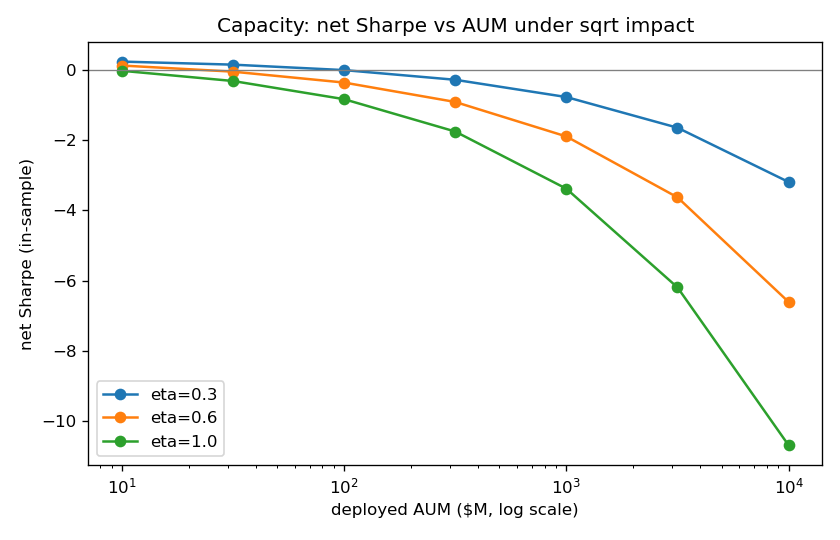
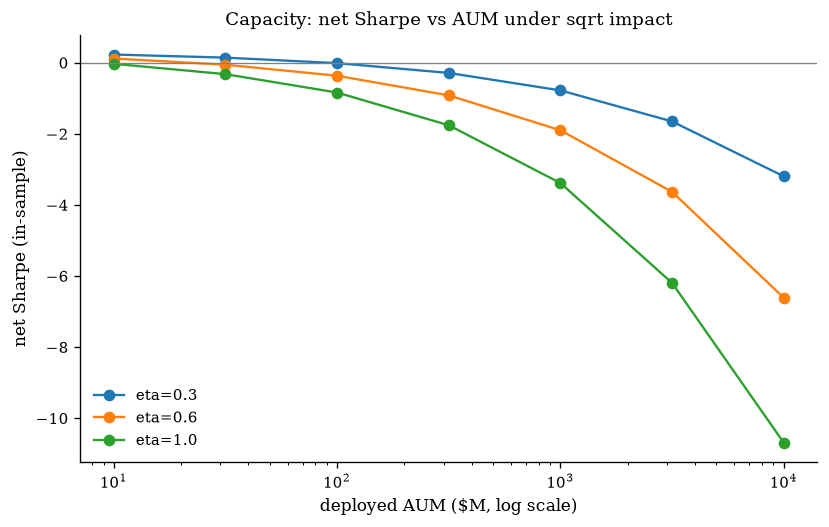
memo figures: serif / CM-math plot style to match the paper
- src/plotstyle.py: shared rcParams (serif fonts, mathtext cm, smaller labels,
  no top/right spines); applied in the cost/capacity/OOS figure scripts.
- Regenerated cost_sensitivity, capacity, oos_equity figures; rebuilt memo
  docx + pdf to embed them. Numbers unchanged (deterministic): deflated Sharpe
  0.20, OOS net -0.15, etc.

diff --git a/src/plotstyle.py b/src/plotstyle.py
@@ -1,0 +1,30 @@
+"""Shared matplotlib style for report figures.
+
+A clean, serif, academic look closer to the Computer Modern memo: serif fonts,
+CM math, smaller labels, no top/right spines. Call ``apply_style()`` after
+importing pyplot in any figure script.
+"""
+from __future__ import annotations
+
+import matplotlib as mpl
+
+
+def apply_style() -> None:
+    mpl.rcParams.update({
+        "font.family": "serif",
+        "font.serif": ["CMU Serif", "Latin Modern Roman", "DejaVu Serif", "Times New Roman"],
+        "mathtext.fontset": "cm",
+        "axes.titlesize": 11,
+        "axes.labelsize": 10,
+        "xtick.labelsize": 9,
+        "ytick.labelsize": 9,
+        "legend.fontsize": 9,
+        "legend.frameon": False,
+        "axes.spines.top": False,
+        "axes.spines.right": False,
+        "axes.grid": False,
+        "lines.linewidth": 1.4,
+        "figure.dpi": 150,
+        "savefig.dpi": 150,
+        "savefig.bbox": "tight",
+    })

diff --git a/scripts/capacity.py b/scripts/capacity.py
@@ -26,6 +26,10 @@ import matplotlib.pyplot as plt
 import numpy as np
 import pandas as pd
 
+from src.plotstyle import apply_style
+
+apply_style()
+
 from src.backtest import engine, metrics
 from src.config import CONFIG, ROOT
 from src.data.load import advdollar_panel, load_eligible, load_returns_full, load_sector

diff --git a/scripts/cost_sensitivity.py b/scripts/cost_sensitivity.py
@@ -20,6 +20,10 @@ import matplotlib.pyplot as plt
 import numpy as np
 import pandas as pd
 
+from src.plotstyle import apply_style
+
+apply_style()
+
 from src.backtest import engine, metrics
 from src.config import CONFIG, ROOT
 from src.data.load import load_eligible, load_returns_full, load_sector

diff --git a/scripts/oos_evaluation.py b/scripts/oos_evaluation.py
@@ -20,6 +20,10 @@ import matplotlib
 
 matplotlib.use("Agg")
 import matplotlib.pyplot as plt
+
+from src.plotstyle import apply_style
+
+apply_style()
 import numpy as np
 import pandas as pd
 